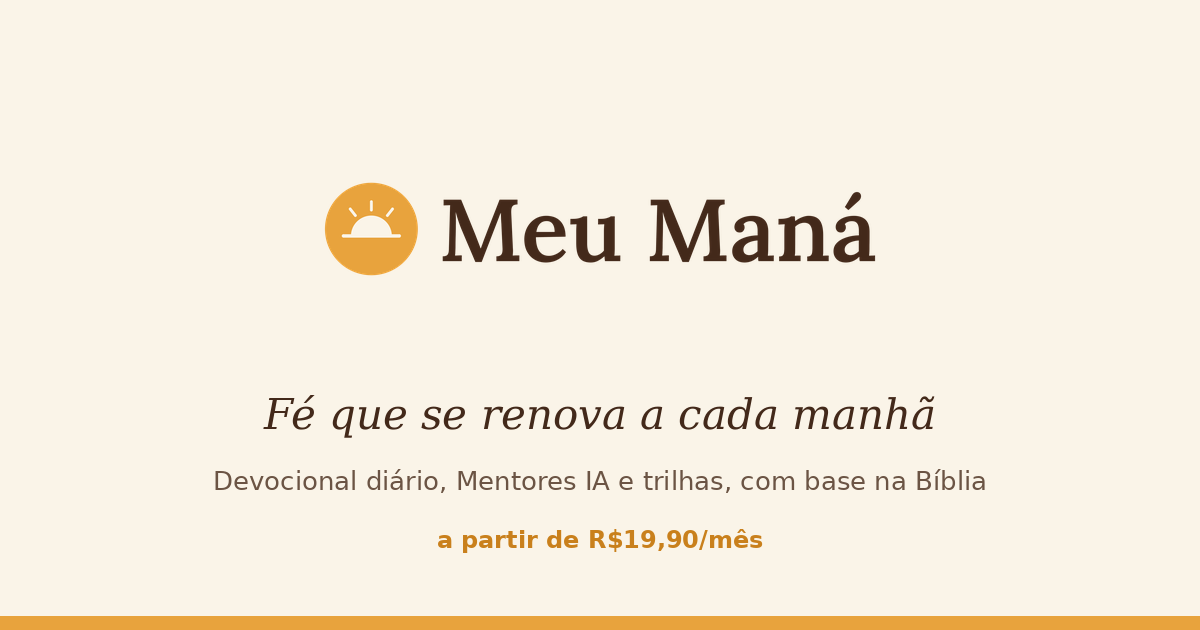
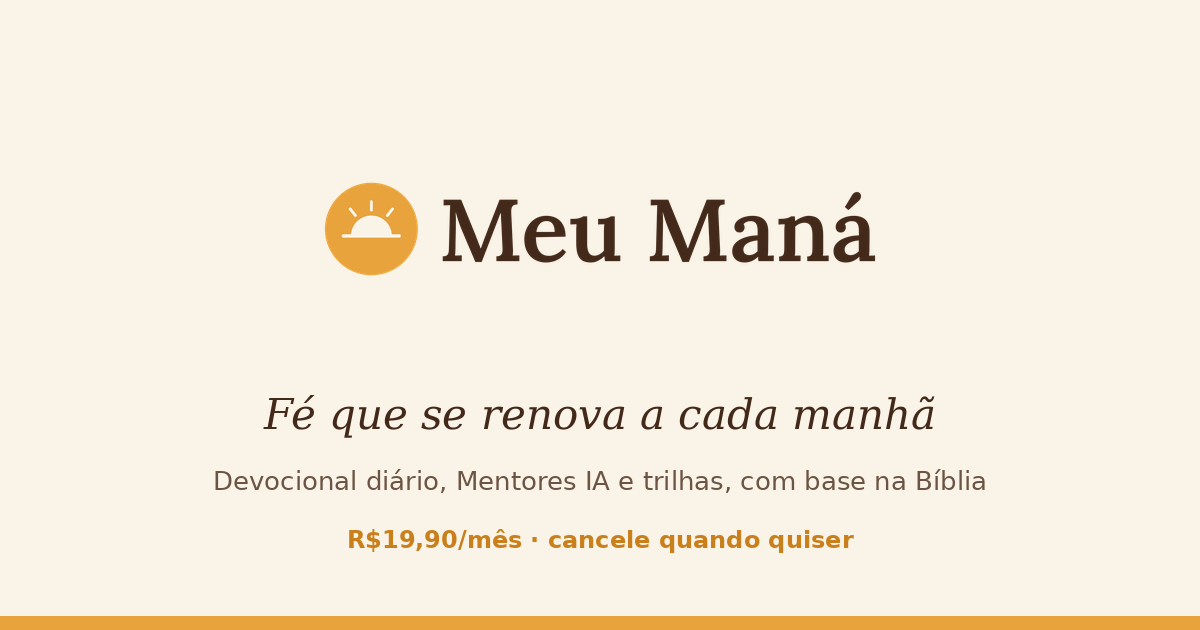
LP so com plano mensal Caminhada

Changed region(s): [[0.2775, 0.8444, 0.7092, 0.8746]]

diff --git a/index.html b/index.html
@@ -4,7 +4,7 @@
 <meta charset="UTF-8">
 <meta name="viewport" content="width=device-width, initial-scale=1, viewport-fit=cover">
 <title>Meu Maná | Devocional diário e Mentores IA, com base na Bíblia</title>
-<meta name="description" content="Constância na sua caminhada de fé: devocional diário, Mentores IA inspirados nos apóstolos e trilhas de estudo, sempre com base na Bíblia. Planos a partir de R$19,90/mês.">
+<meta name="description" content="Constância na sua caminhada de fé: devocional diário, Mentores IA inspirados nos apóstolos e trilhas de estudo, sempre com base na Bíblia. R$19,90/mês, cancele quando quiser.">
 <link rel="canonical" href="https://assine.meumana.app/">
 <meta name="theme-color" content="#E8A33D">
 <meta name="robots" content="index,follow">
@@ -14,7 +14,7 @@
 <meta property="og:locale" content="pt_BR">
 <meta property="og:site_name" content="Meu Maná">
 <meta property="og:title" content="Meu Maná | Fé que se renova a cada manhã">
-<meta property="og:description" content="Devocional diário, Mentores IA inspirados nos apóstolos e trilhas de estudo, sempre com base na Bíblia. A partir de R$19,90/mês.">
+<meta property="og:description" content="Devocional diário, Mentores IA inspirados nos apóstolos e trilhas de estudo, sempre com base na Bíblia. R$19,90/mês, cancele quando quiser.">
 <meta property="og:url" content="https://assine.meumana.app/">
 <meta property="og:image" content="https://assine.meumana.app/og.png">
 <meta name="twitter:card" content="summary_large_image">
@@ -260,10 +260,6 @@ footer a:hover{text-decoration:underline}
 </head>
 <body>
 
-<div class="aviso" id="aviso-cupom">
-  Cupom <b>FUNDADORMANA</b>: 30% off no plano anual para os 100 primeiros, até 31/07. <a href="#planos">Ver planos</a>
-</div>
-
 <header>
   <div class="nav">
     <a class="logo" href="#" aria-label="Meu Maná">
@@ -281,7 +277,7 @@ footer a:hover{text-decoration:underline}
       <span class="kicker">Mentoria espiritual cristã com IA</span>
       <h1>Fé que se renova a cada manhã</h1>
       <p class="lead">Devocional diário, Mentores IA inspirados nos apóstolos e trilhas de estudo, sempre com base na Bíblia. No seu ritmo, direto do seu celular, a qualquer hora.</p>
-      <p class="preco-ancora">Planos a partir de R$19,90/mês. Cancele quando quiser.</p>
+      <p class="preco-ancora">R$19,90 por mês. Cancele quando quiser.</p>
       <a class="btn grande js-cta" data-plano="hero" href="#planos">Quero começar hoje</a>
       <p class="btn-nota">Leva menos de 2 minutos para começar.</p>
       <div class="selos">
@@ -378,42 +374,25 @@ footer a:hover{text-decoration:underline}
 <!-- PLANOS -->
 <section id="planos" class="planos-sec">
   <div class="wrap center">
-    <span class="kicker">Planos e preços</span>
-    <h2>Escolha o ritmo da sua caminhada</h2>
+    <span class="kicker">Plano e preço</span>
+    <h2>Um plano simples, um preço só</h2>
     <p class="sub">Menos que uma pizza por mês para caminhar com a Palavra todos os dias.</p>
-    <div class="grade" style="text-align:left;margin-top:48px">
+    <div class="grade" style="text-align:left;margin-top:48px;grid-template-columns:1fr;max-width:460px">
 
-      <div class="plano">
+      <div class="plano destaque">
+        <div class="tag-popular">Tudo incluído</div>
         <h3>Caminhada</h3>
-        <p class="para">Plano mensal, para começar hoje</p>
+        <p class="para">Seu mentor espiritual no dia a dia</p>
         <div class="preco">R$19,90<small>/mês</small></div>
-        <p class="equivale">Renovação mensal, cancele quando quiser</p>
+        <p class="equivale">Menos de R$0,70 por dia, cancele quando quiser</p>
         <ul>
           <li><b class="ok">✔</b> Devocional diário completo</li>
-          <li><b class="ok">✔</b> Conversas com os Mentores IA</li>
+          <li><b class="ok">✔</b> Conversas com os Mentores IA dos apóstolos</li>
           <li><b class="ok">✔</b> Trilhas de estudo bíblico</li>
           <li><b class="ok">✔</b> Pedidos de oração e acolhimento</li>
           <li><b class="ok">✔</b> Acompanhamento do seu progresso</li>
         </ul>
-        <a class="btn js-cta js-checkout" data-plano="caminhada" href="https://www.meumana.app/payment/checkout?planId=5c7b4cba-34f9-4c19-8809-4d282a35a2ac&type=plan">Assinar a Caminhada</a>
-      </div>
-
-      <div class="plano destaque">
-        <div class="tag-popular">Mais popular · 30% off</div>
-        <h3>Jornada</h3>
-        <p class="para">Plano anual, o melhor valor</p>
-        <p class="preco-de">De R$149/ano</p>
-        <div class="preco">R$104,30<small>/ano</small></div>
-        <p class="equivale">Sai por menos de R$9 por mês</p>
-        <ul>
-          <li><b class="ok">✔</b> Tudo do plano Caminhada</li>
-          <li><b class="ok">✔</b> Um ano inteiro de constância</li>
-          <li><b class="ok">✔</b> Economia de mais de 55% sobre o mensal</li>
-        </ul>
-        <div class="cupom-box" id="cupom-box">
-          <b>Cupom FUNDADORMANA aplicado neste botão:</b> 30% de desconto para os 100 primeiros assinantes, válido até 31/07. Depois disso, R$149/ano.
-        </div>
-        <a class="btn js-cta js-checkout" data-plano="jornada-fundador" href="https://www.meumana.app/payment/checkout?planId=99e1d70b-2603-4fc4-8635-63016cb562f1&type=plan&coupon=FUNDADORMANA">Assinar a Jornada com 30% off</a>
+        <a class="btn grande js-cta js-checkout" data-plano="caminhada" href="https://www.meumana.app/payment/checkout?planId=5c7b4cba-34f9-4c19-8809-4d282a35a2ac&type=plan">Assinar por R$19,90/mês</a>
       </div>
 
     </div>
@@ -449,10 +428,6 @@ footer a:hover{text-decoration:underline}
       <p>O pagamento é processado pelo Stripe, uma das maiores empresas de pagamento do mundo, com cartão de crédito. Nós não temos acesso aos dados do seu cartão. A assinatura renova automaticamente e você pode cancelar quando quiser.</p>
     </details>
     <details>
-      <summary>Como uso o cupom FUNDADORMANA?</summary>
-      <p>É automático: clicando no botão do plano Jornada aqui da página, o desconto de 30% já aparece aplicado no resumo da compra. A condição vale para os 100 primeiros assinantes, até 31/07.</p>
-    </details>
-    <details>
       <summary>E se eu não gostar?</summary>
       <p>Você cancela a renovação a qualquer momento, direto na plataforma, sem precisar falar com ninguém. Sem multa e sem fidelidade.</p>
     </details>
@@ -483,7 +458,7 @@ footer a:hover{text-decoration:underline}
 </footer>
 
 <div class="cta-fixo">
-  <a class="btn js-cta" data-plano="barra-fixa" href="#planos">Ver planos a partir de R$19,90/mês</a>
+  <a class="btn js-cta js-checkout" data-plano="barra-fixa" href="https://www.meumana.app/payment/checkout?planId=5c7b4cba-34f9-4c19-8809-4d282a35a2ac&type=plan">Assinar por R$19,90/mês</a>
 </div>
 
 <script>
@@ -528,23 +503,6 @@ document.querySelectorAll('a.js-checkout').forEach(function(a){
   });
 });
 
-/* Depois de 31/07/2026, esconde o cupom e volta o anual para R$149 */
-(function(){
-  var fim = new Date('2026-08-01T03:00:00Z'); /* 31/07 23:59 no Brasil */
-  if (new Date() < fim) return;
-  var aviso = document.getElementById('aviso-cupom'); if (aviso) aviso.style.display = 'none';
-  var box = document.getElementById('cupom-box'); if (box) box.style.display = 'none';
-  var card = document.querySelector('.plano.destaque');
-  if (card) {
-    card.querySelector('.tag-popular').textContent = 'Mais popular';
-    card.querySelector('.preco-de').style.display = 'none';
-    card.querySelector('.preco').innerHTML = 'R$149<small>/ano</small>';
-    card.querySelector('.equivale').textContent = 'Sai por cerca de R$12,40 por mês';
-    var btn = card.querySelector('a.js-checkout');
-    btn.href = btn.href.replace(/&coupon=FUNDADORMANA/i, '');
-    btn.textContent = 'Assinar a Jornada';
-  }
-})();
 </script>
 </body>
 </html>